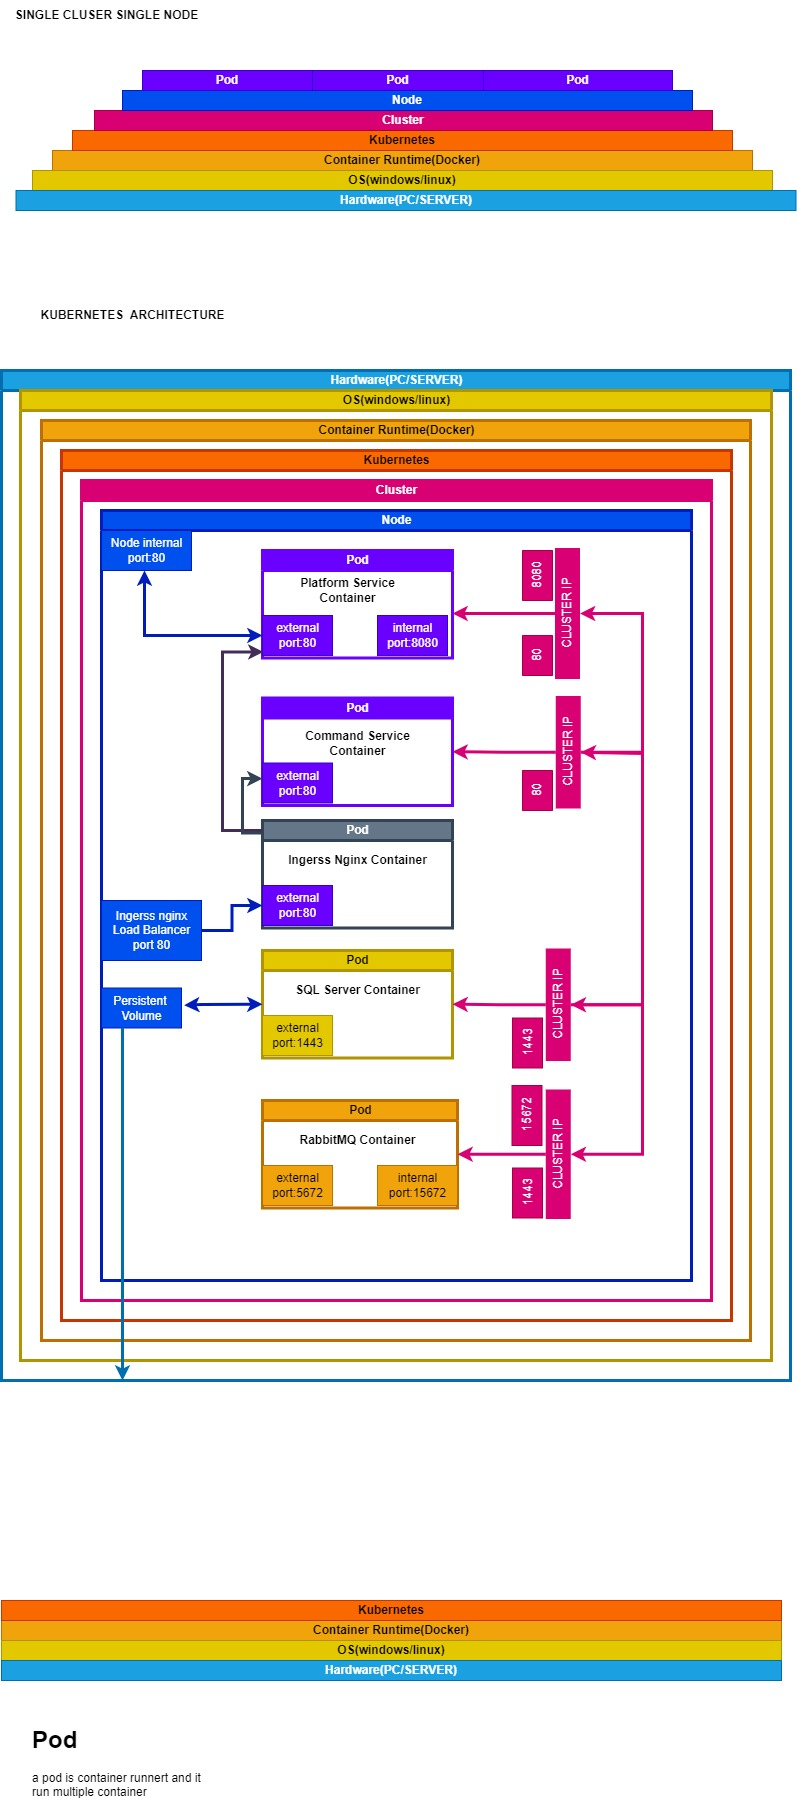
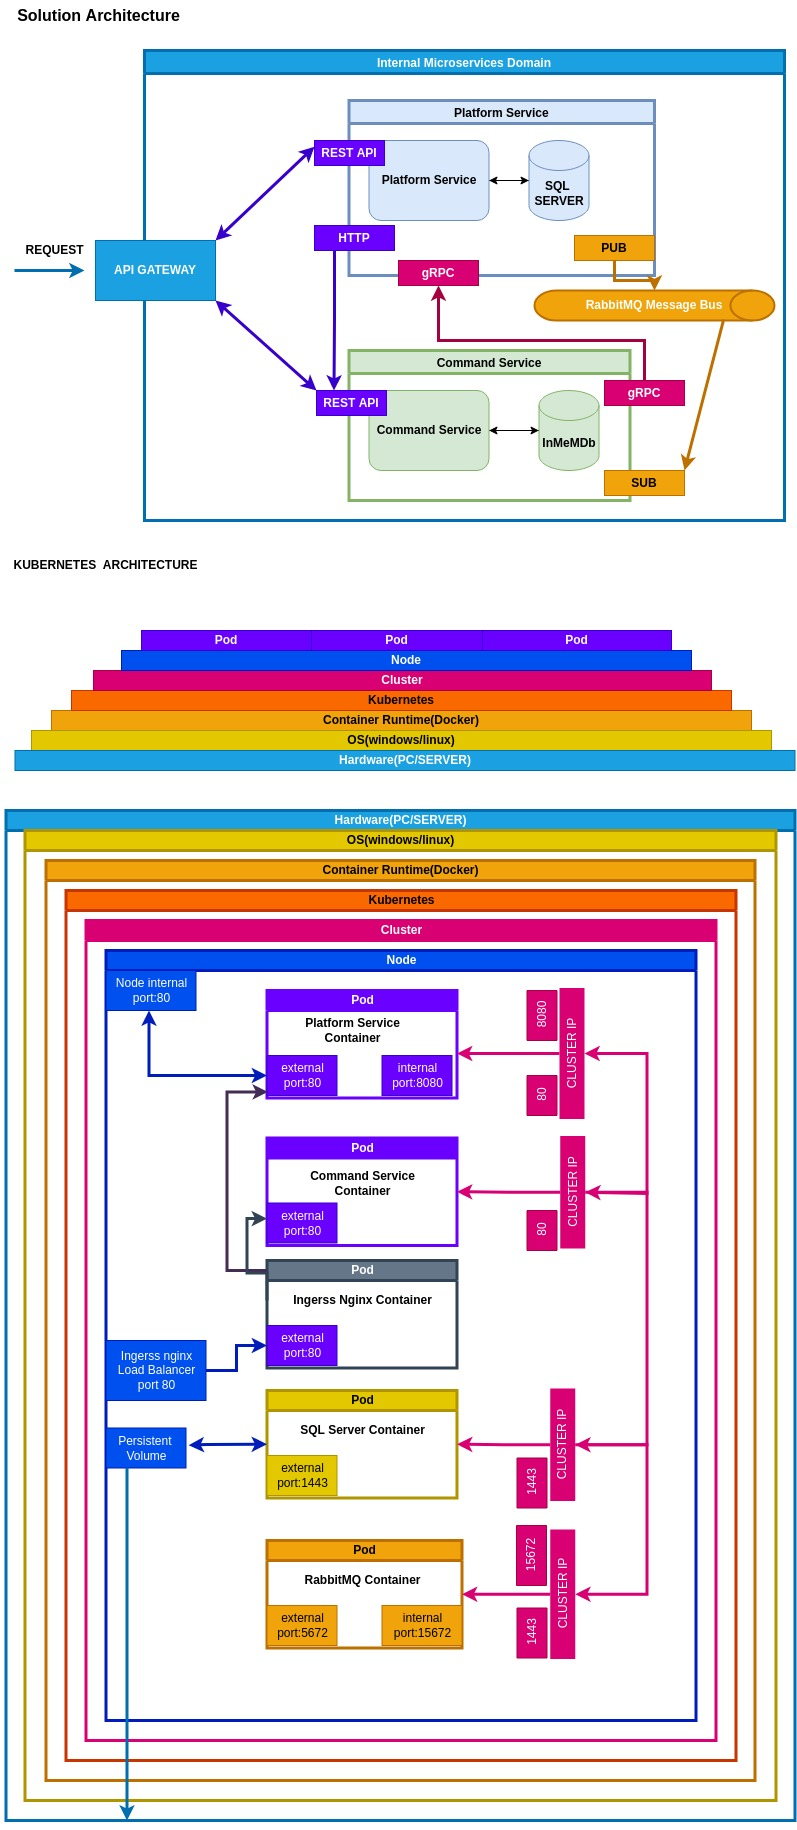
Adding presentation

diff --git a/README.md b/README.md
@@ -1,8 +1,34 @@
-# MicroserviceSample
+# Introduction to Microservice 
+
+This repository is an introduction to .NET microservices
+with container based services.
+The main service are 2 :
+-   Platform service
+-   Command service
+
+# Platform service
+Expose rest api  under nginx loadbalancer and store the data on SQL Server database using entity framework (with persistence)
+and expose an gRPC server
+
+# Command service
+Expose rest api  under nginx loadbalancer and store the data on in memory database  using entity framework (No persistence) and using gRPC cleint
+
+The 2 services talk to each other in asynchronous way using  RabbitMQ
+and in synchronous way using gRPC and Http rest
+
+# Architecture
 ![Architecture](https://github.com/FBicsharp/MicroserviceSample/blob/master/Docs/Architecture.jpg)
 
 
-# tecnologies stack
+# Project Behavior
+Platform service when a post request is made send an Http request to Command service
+and also publish an event to RabbitMQ with the content , all data are save on SQL table, after that expose the entire data via gRPC calling
+
+Command service when start retrive all data via gRPC from Platform service and after that subscribe to RabbitMQ evet exposed.
+The command service expose your own data under Http rest api for creating new command based on platform data.
+
+
+# Technologies stack used
 - docker
 - kubernetes
 - Entity Framework
@@ -10,4 +36,7 @@
 - Rest API
 - RabbitMQ for asychronous
 - gRPC
+- a lot of patience
+
+
 
